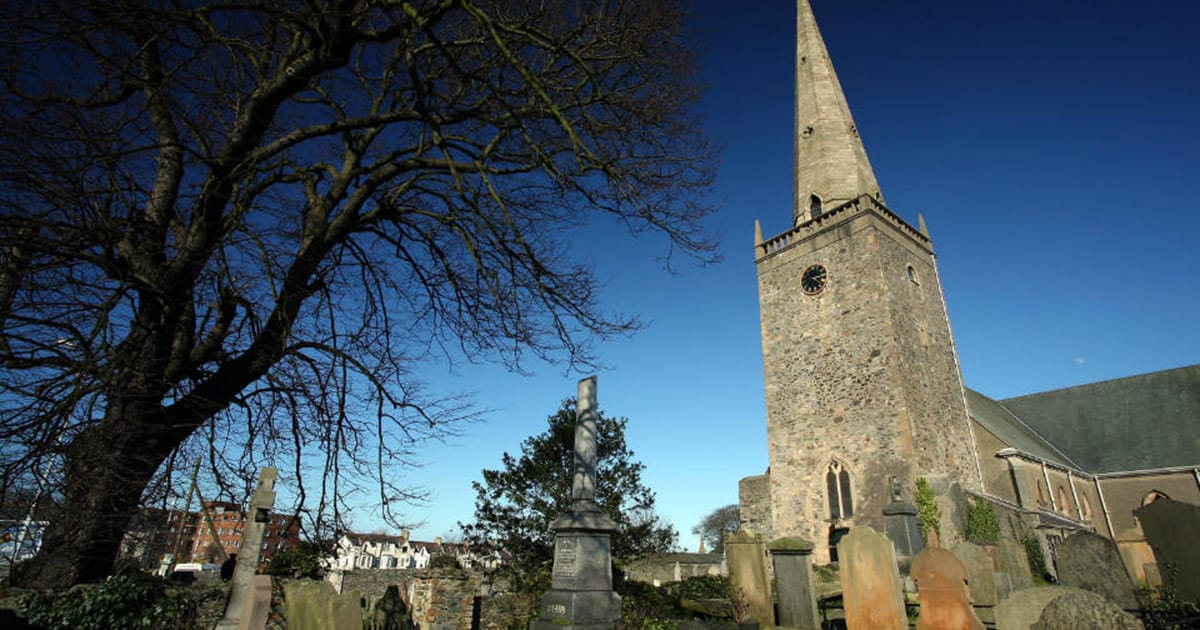
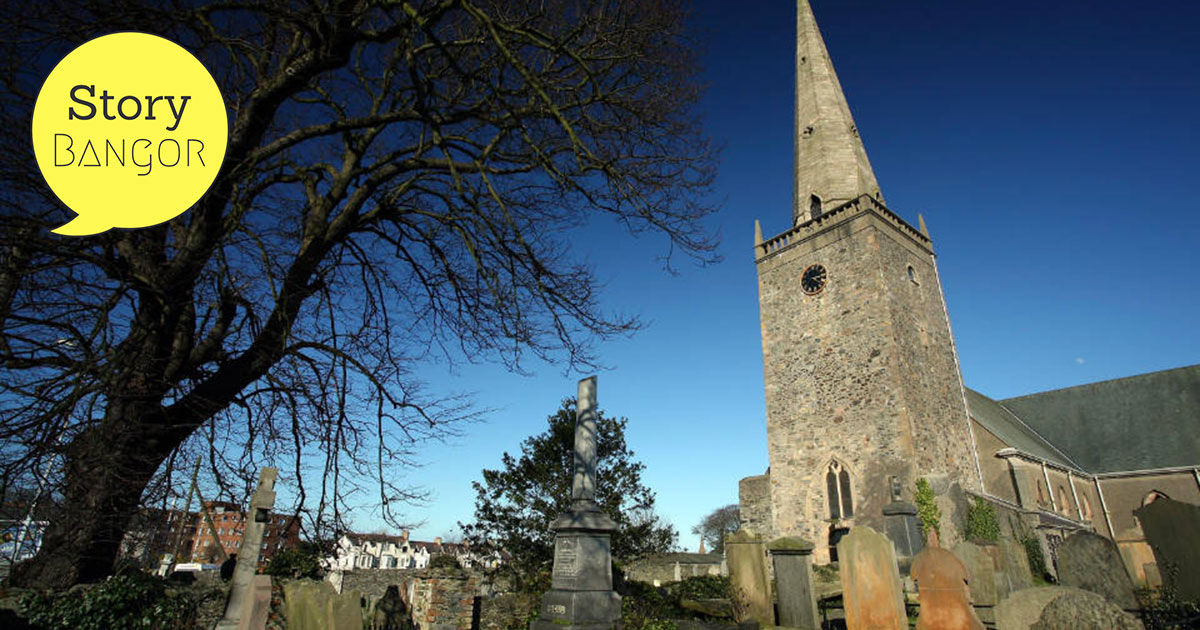
meta fix... again

Changed region(s): [[0.0, 0.0302, 0.2158, 0.3921]]

diff --git a/src/pages/events/bangors-story.js b/src/pages/events/bangors-story.js
@@ -33,14 +33,11 @@ const PageMeta = () => (
 
               {/* Twitter Meta */}
               <meta name="twitter:card" content="summary_large_image" />
-              <meta name="twitter:site" content="@sstorybangorr" />
+              <meta name="twitter:site" content="@storybangor" />
               <meta name="twitter:creator" content="@storybangor" />
               <meta name="twitter:title" content="Bangor's Story | Story Bangor" />
-              <meta
-                name="twitter:description"
-                content="Come explore Bangor’s Christian heritage with David Irwin at the wheel and Robert McKinley as tour guide."
-              />
-              <meta name="twitter:image" content={abbey} />
+              <meta name="twitter:description" content="Come explore Bangor’s Christian heritage with David Irwin at the wheel and Robert McKinley as tour guide." />
+              <meta name="twitter:image" content={facebook} />
             </Helmet>
         </div>
 );
